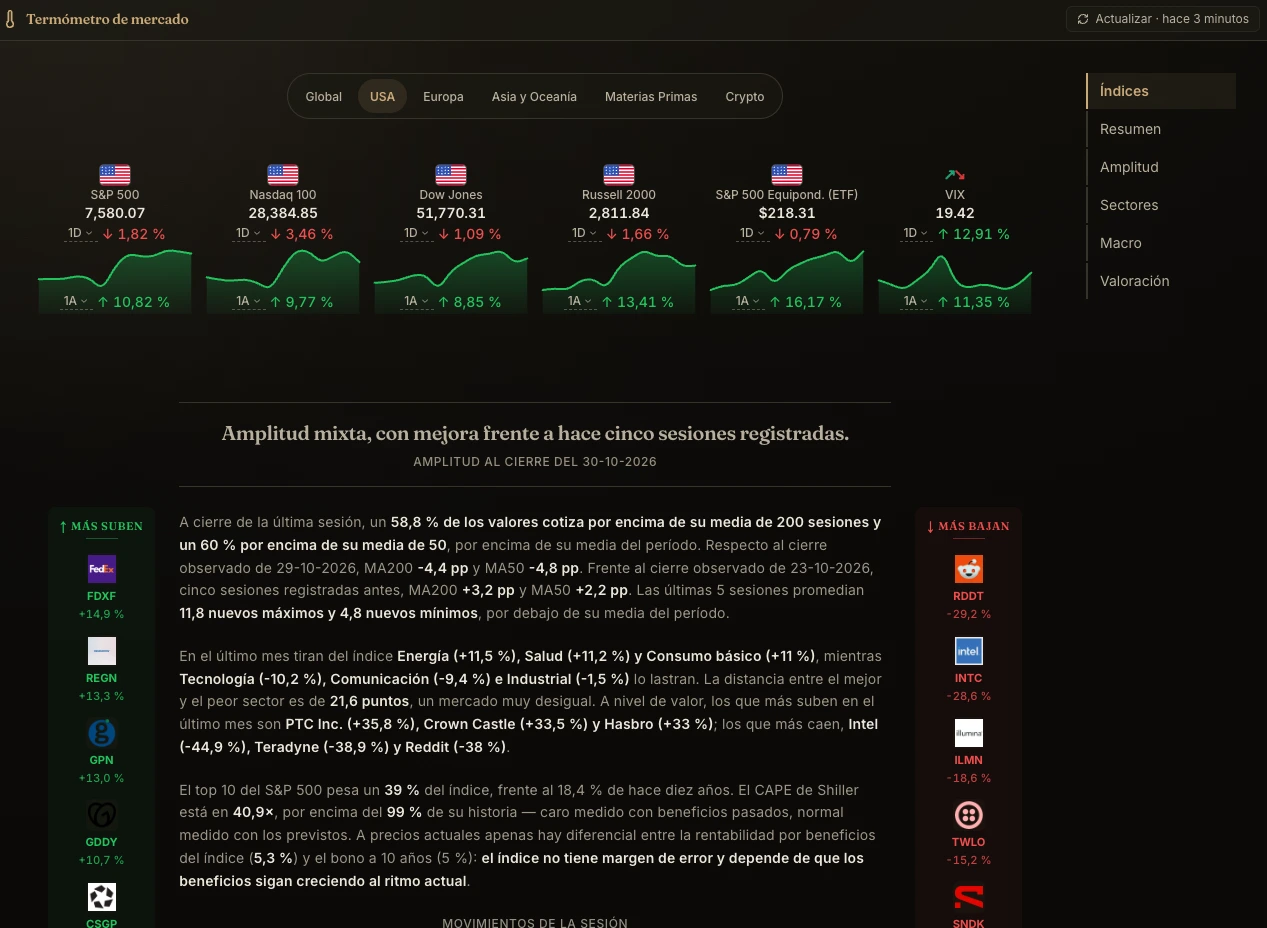
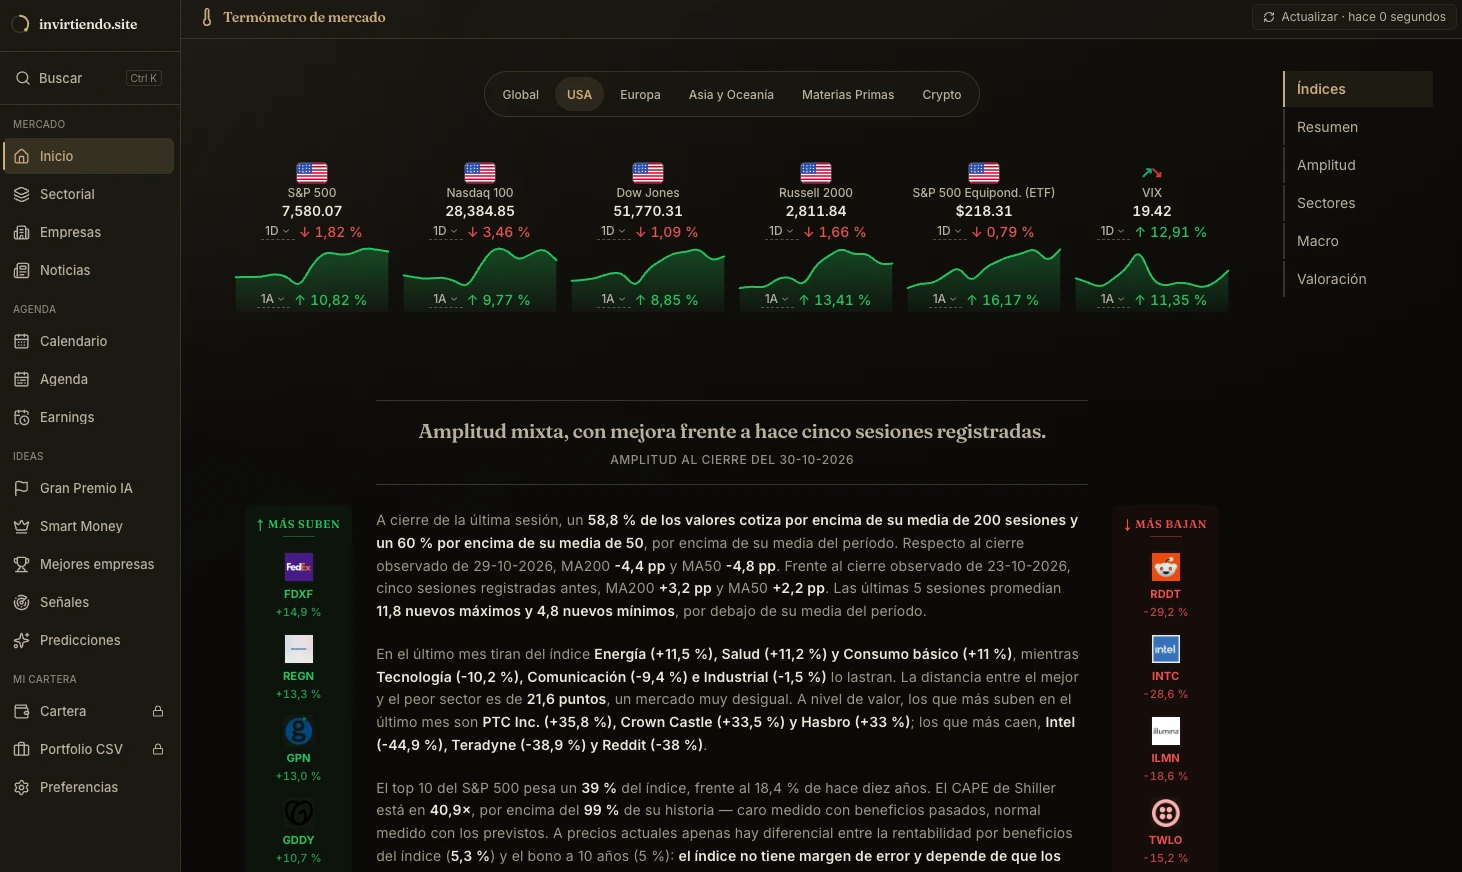
feat(content): invirtiendo.site second with a new cover, Adivina Perro third

diff --git a/src/data/projects.ts b/src/data/projects.ts
@@ -30,7 +30,7 @@ export interface Project {
 }
 
 export const projects: Project[] = [
-  // Featured rows: Gran Premio IA, Adivina Perro, invirtiendo.site, RAG Chatbot
+  // Featured rows: Gran Premio IA, invirtiendo.site, Adivina Perro, RAG Chatbot
   {
     slug: "gran-premio-ia",
     title: "Gran Premio IA",
@@ -72,50 +72,6 @@ export const projects: Project[] = [
         { es: "Pipeline desatendido: guion con Claude, voz sintetizada, render en Remotion y subida a YouTube", en: "Unattended pipeline: Claude script, synthesised voice, Remotion render and YouTube upload" },
         { es: "Vídeos 16:9 y 9:16 con el mismo circuito que la web", en: "16:9 and 9:16 videos on the same circuit as the website" },
         { es: "Matemática de carrera pura con caché coordinada entre servidor, CDN y cliente", en: "Pure race maths with caching coordinated across server, CDN and client" }
-      ],
-    }
-  },
-  {
-    slug: "adivina-perro",
-    title: "Adivina Perro",
-    subtitle: {
-      es: "Reconocimiento de Razas con IA On-Device",
-      en: "On-Device AI Breed Recognition"
-    },
-    description: {
-      es: "App Kotlin Multiplatform (Android + iOS) que combina un quiz de razas de perros con reconocimiento de raza por IA on-device en Android usando un modelo TFLite. Apunta la cámara a un perro y obtén la raza identificada en milisegundos, 100% offline.",
-      en: "Kotlin Multiplatform app (Android + iOS) that combines a dog breed quiz with on-device AI breed recognition on Android using a TFLite model. Point the camera at a dog and get the breed identified in milliseconds, 100% offline."
-    },
-    features: [
-      { es: "TFLite On-Device", en: "On-Device TFLite" },
-      { es: "120 Razas Reconocibles", en: "120 Recognizable Breeds" },
-      { es: "4 Modos de Juego", en: "4 Game Modes" },
-      { es: "200+ Razas Catalogadas", en: "200+ Breed Catalogue" }
-    ],
-    techStack: ["Kotlin Multiplatform", "Compose Multiplatform", "TensorFlow Lite", "MobileNet V2", "CameraX", "Koin", "SQLDelight", "Firebase"],
-    status: 'live',
-    links: { github: "https://github.com/AlvaroQ/AdivinaRaza", demo: "https://play.google.com/store/apps/details?id=com.alvaroquintana.adivinaperro" },
-    caseStudy: {
-      longDescription: {
-        es: "App KMP para Android y iOS que combina un juego de razas de perros con reconocimiento por IA en el dispositivo, sin servidor y sin coste por petición.\n\n## Edge AI: Reconocimiento de Razas\nUn modelo MobileNet V2 optimizado y compilado a TensorFlow Lite ejecuta inferencia 100% on-device. La cámara captura la foto vía CameraX, la imagen se escala a 224×224 y se normaliza a [0, 1], el intérprete TFLite clasifica entre 120 razas y se muestran las top 5 predicciones con porcentaje de confianza. Tap en cualquier resultado abre la ficha completa de la raza.\n\n## Catálogo y Gameplay\n200+ razas con info detallada (origen, temperamento, tamaño, pelaje, ejercicio, cuidados, entrenabilidad, ladrido, datos curiosos), clasificación FCI, guías de nutrición e higiene, enfermedades comunes y nombres alternativos. Cuatro modos de juego: quiz clásico de raza, comparativa de peso/altura, adivinar por descripción y trivia FCI. Sistema de vidas, progresión por etapas y tracking de rachas.\n\n## Arquitectura Multiplataforma\nClean Architecture en 4 módulos KMP: `app` (Compose Multiplatform + plataformas), `usecases` (Pure Kotlin), `data` (repos + SQLDelight + mappers) y `core` (entidades). El interfaz `BreedClassifier` vive en `commonMain`; Android aporta la implementación TFLite, dejando el ViewModel agnóstico de plataforma y listo para una futura implementación iOS.\n\n## Decisiones de Diseño\nSQLDelight como source of truth y Firebase como semilla: una sincronización inicial alimenta SQLite y todas las queries posteriores son locales. MVVM con StateFlow granular en lugar de MVI (los formularios son pequeños y ortogonales). Koin sobre Hilt por compatibilidad KMP nativa sin kapt/ksp.",
-        en: "KMP app for Android and iOS combining a dog breed quiz with on-device AI recognition — no server, no per-request cost.\n\n## Edge AI: Breed Recognition\nA MobileNet V2 model optimised and compiled to TensorFlow Lite runs inference 100% on-device. CameraX captures the photo, the image is scaled to 224×224 and normalised to [0, 1], the TFLite interpreter classifies across 120 breeds and the top 5 predictions are displayed with confidence percentages. Tap any result to open the full breed details.\n\n## Catalogue and Gameplay\n200+ breeds with detailed info (origin, temperament, size, coat, exercise needs, grooming, trainability, barking level, fun facts), FCI classification, nutrition and hygiene guides, common diseases and alternative names. Four game modes: classic breed quiz, weight/height comparison, description guessing and FCI trivia. Lives system, stage progression and streak tracking.\n\n## Multiplatform Architecture\nClean Architecture across 4 KMP modules: `app` (Compose Multiplatform + platforms), `usecases` (Pure Kotlin), `data` (repos + SQLDelight + mappers) and `core` (entities). The `BreedClassifier` interface lives in `commonMain`; Android provides the TFLite implementation, keeping the ViewModel platform-agnostic and ready for a future iOS implementation.\n\n## Design Decisions\nSQLDelight as source of truth and Firebase as the seed: an initial sync feeds SQLite and every subsequent query stays local. MVVM with granular StateFlow over MVI (forms are small and orthogonal). Koin over Hilt for native KMP compatibility without kapt/ksp."
-      },
-      architecture: {
-        es: "Lenguaje: Kotlin Multiplatform 2.3.20\nUI: Compose Multiplatform (BOM 2026.03.01) + Material3\nPlataformas: Android (API 23+) + iOS (iosArm64 + iosSimulatorArm64)\nArquitectura: Clean Architecture, 4 módulos KMP (app, usecases, data, core) + MVVM\nEstado: StateFlow + SharedFlow (Coroutines 1.10.2)\nNavegación: Navigation Compose KMP type-safe 2.9.2\nDI: Koin Multiplatform 4.2.1\nIA on-device: TensorFlow Lite 2.17.0 (MobileNet V2 — 120 razas)\nCámara: CameraX (Android)\nPersistencia: SQLDelight 2.0.2 (Multiplatform)\nBackend: Firebase BOM 34.12.0 (Firestore, Realtime DB, Auth, Analytics, Crashlytics)\nMonetización: AdMob 25.2.0 (banner + rewarded + interstitial) + UMP 4.0.0\nTesting: 59 unit tests JVM (JUnit 4 + MockK + Turbine)",
-        en: "Language: Kotlin Multiplatform 2.3.20\nUI: Compose Multiplatform (BOM 2026.03.01) + Material3\nPlatforms: Android (API 23+) + iOS (iosArm64 + iosSimulatorArm64)\nArchitecture: Clean Architecture, 4 KMP modules (app, usecases, data, core) + MVVM\nState: StateFlow + SharedFlow (Coroutines 1.10.2)\nNavigation: Navigation Compose KMP type-safe 2.9.2\nDI: Koin Multiplatform 4.2.1\nOn-device AI: TensorFlow Lite 2.17.0 (MobileNet V2 — 120 breeds)\nCamera: CameraX (Android)\nPersistence: SQLDelight 2.0.2 (Multiplatform)\nBackend: Firebase BOM 34.12.0 (Firestore, Realtime DB, Auth, Analytics, Crashlytics)\nMonetisation: AdMob 25.2.0 (banner + rewarded + interstitial) + UMP 4.0.0\nTesting: 59 unit tests JVM (JUnit 4 + MockK + Turbine)"
-      },
-      screenshots: [
-        "projects/adivina-perro-banner.webp"
-      ],
-      keyHighlights: [
-        { es: "Reconocimiento de raza 100% on-device con TFLite — sin red, sin coste por petición", en: "100% on-device breed recognition with TFLite — no network, no per-request cost" },
-        { es: "MobileNet V2 optimizado: 224×224 RGB, 120 clases, latencia en milisegundos", en: "Optimised MobileNet V2: 224×224 RGB, 120 classes, millisecond latency" },
-        { es: "Top 5 predicciones con porcentaje de confianza y navegación directa al detalle", en: "Top 5 predictions with confidence percentages and direct navigation to detail" },
-        { es: "Catálogo de 200+ razas con info de cuidados, FCI, dieta y enfermedades", en: "Catalogue of 200+ breeds with care info, FCI, diet and diseases" },
-        { es: "4 modos de juego: quiz clásico, peso/altura, descripción y trivia FCI", en: "4 game modes: classic quiz, weight/height, description and FCI trivia" },
-        { es: "Clean Architecture en 4 módulos KMP con interfaz BreedClassifier en commonMain", en: "Clean Architecture across 4 KMP modules with BreedClassifier interface in commonMain" },
-        { es: "59 unit tests pasando en CI (32 ViewModels + 14 use cases + 13 data)", en: "59 unit tests passing in CI (32 ViewModels + 14 use cases + 13 data)" },
-        { es: "SQLDelight como source of truth, Firebase como semilla — playable offline", en: "SQLDelight as source of truth, Firebase as seed — playable offline" }
       ],
     }
   },
@@ -163,6 +119,50 @@ export const projects: Project[] = [
         { es: "Cartera de acciones y ETFs: CAGR, Sharpe, drawdown, rayos X y solapamientos", en: "Stock and ETF portfolio: CAGR, Sharpe, drawdown, X-ray and overlap" },
         { es: "85 módulos de feature y pipelines de datos nocturnos y semanales hacia Firestore", en: "85 feature modules and nightly and weekly data pipelines into Firestore" },
         { es: "Quality gate con ~650 ficheros de test, escaneo de secretos y presupuestos de rendimiento", en: "Quality gate with ~650 test files, secret scanning and performance budgets" }
+      ],
+    }
+  },
+  {
+    slug: "adivina-perro",
+    title: "Adivina Perro",
+    subtitle: {
+      es: "Reconocimiento de Razas con IA On-Device",
+      en: "On-Device AI Breed Recognition"
+    },
+    description: {
+      es: "App Kotlin Multiplatform (Android + iOS) que combina un quiz de razas de perros con reconocimiento de raza por IA on-device en Android usando un modelo TFLite. Apunta la cámara a un perro y obtén la raza identificada en milisegundos, 100% offline.",
+      en: "Kotlin Multiplatform app (Android + iOS) that combines a dog breed quiz with on-device AI breed recognition on Android using a TFLite model. Point the camera at a dog and get the breed identified in milliseconds, 100% offline."
+    },
+    features: [
+      { es: "TFLite On-Device", en: "On-Device TFLite" },
+      { es: "120 Razas Reconocibles", en: "120 Recognizable Breeds" },
+      { es: "4 Modos de Juego", en: "4 Game Modes" },
+      { es: "200+ Razas Catalogadas", en: "200+ Breed Catalogue" }
+    ],
+    techStack: ["Kotlin Multiplatform", "Compose Multiplatform", "TensorFlow Lite", "MobileNet V2", "CameraX", "Koin", "SQLDelight", "Firebase"],
+    status: 'live',
+    links: { github: "https://github.com/AlvaroQ/AdivinaRaza", demo: "https://play.google.com/store/apps/details?id=com.alvaroquintana.adivinaperro" },
+    caseStudy: {
+      longDescription: {
+        es: "App KMP para Android y iOS que combina un juego de razas de perros con reconocimiento por IA en el dispositivo, sin servidor y sin coste por petición.\n\n## Edge AI: Reconocimiento de Razas\nUn modelo MobileNet V2 optimizado y compilado a TensorFlow Lite ejecuta inferencia 100% on-device. La cámara captura la foto vía CameraX, la imagen se escala a 224×224 y se normaliza a [0, 1], el intérprete TFLite clasifica entre 120 razas y se muestran las top 5 predicciones con porcentaje de confianza. Tap en cualquier resultado abre la ficha completa de la raza.\n\n## Catálogo y Gameplay\n200+ razas con info detallada (origen, temperamento, tamaño, pelaje, ejercicio, cuidados, entrenabilidad, ladrido, datos curiosos), clasificación FCI, guías de nutrición e higiene, enfermedades comunes y nombres alternativos. Cuatro modos de juego: quiz clásico de raza, comparativa de peso/altura, adivinar por descripción y trivia FCI. Sistema de vidas, progresión por etapas y tracking de rachas.\n\n## Arquitectura Multiplataforma\nClean Architecture en 4 módulos KMP: `app` (Compose Multiplatform + plataformas), `usecases` (Pure Kotlin), `data` (repos + SQLDelight + mappers) y `core` (entidades). El interfaz `BreedClassifier` vive en `commonMain`; Android aporta la implementación TFLite, dejando el ViewModel agnóstico de plataforma y listo para una futura implementación iOS.\n\n## Decisiones de Diseño\nSQLDelight como source of truth y Firebase como semilla: una sincronización inicial alimenta SQLite y todas las queries posteriores son locales. MVVM con StateFlow granular en lugar de MVI (los formularios son pequeños y ortogonales). Koin sobre Hilt por compatibilidad KMP nativa sin kapt/ksp.",
+        en: "KMP app for Android and iOS combining a dog breed quiz with on-device AI recognition — no server, no per-request cost.\n\n## Edge AI: Breed Recognition\nA MobileNet V2 model optimised and compiled to TensorFlow Lite runs inference 100% on-device. CameraX captures the photo, the image is scaled to 224×224 and normalised to [0, 1], the TFLite interpreter classifies across 120 breeds and the top 5 predictions are displayed with confidence percentages. Tap any result to open the full breed details.\n\n## Catalogue and Gameplay\n200+ breeds with detailed info (origin, temperament, size, coat, exercise needs, grooming, trainability, barking level, fun facts), FCI classification, nutrition and hygiene guides, common diseases and alternative names. Four game modes: classic breed quiz, weight/height comparison, description guessing and FCI trivia. Lives system, stage progression and streak tracking.\n\n## Multiplatform Architecture\nClean Architecture across 4 KMP modules: `app` (Compose Multiplatform + platforms), `usecases` (Pure Kotlin), `data` (repos + SQLDelight + mappers) and `core` (entities). The `BreedClassifier` interface lives in `commonMain`; Android provides the TFLite implementation, keeping the ViewModel platform-agnostic and ready for a future iOS implementation.\n\n## Design Decisions\nSQLDelight as source of truth and Firebase as the seed: an initial sync feeds SQLite and every subsequent query stays local. MVVM with granular StateFlow over MVI (forms are small and orthogonal). Koin over Hilt for native KMP compatibility without kapt/ksp."
+      },
+      architecture: {
+        es: "Lenguaje: Kotlin Multiplatform 2.3.20\nUI: Compose Multiplatform (BOM 2026.03.01) + Material3\nPlataformas: Android (API 23+) + iOS (iosArm64 + iosSimulatorArm64)\nArquitectura: Clean Architecture, 4 módulos KMP (app, usecases, data, core) + MVVM\nEstado: StateFlow + SharedFlow (Coroutines 1.10.2)\nNavegación: Navigation Compose KMP type-safe 2.9.2\nDI: Koin Multiplatform 4.2.1\nIA on-device: TensorFlow Lite 2.17.0 (MobileNet V2 — 120 razas)\nCámara: CameraX (Android)\nPersistencia: SQLDelight 2.0.2 (Multiplatform)\nBackend: Firebase BOM 34.12.0 (Firestore, Realtime DB, Auth, Analytics, Crashlytics)\nMonetización: AdMob 25.2.0 (banner + rewarded + interstitial) + UMP 4.0.0\nTesting: 59 unit tests JVM (JUnit 4 + MockK + Turbine)",
+        en: "Language: Kotlin Multiplatform 2.3.20\nUI: Compose Multiplatform (BOM 2026.03.01) + Material3\nPlatforms: Android (API 23+) + iOS (iosArm64 + iosSimulatorArm64)\nArchitecture: Clean Architecture, 4 KMP modules (app, usecases, data, core) + MVVM\nState: StateFlow + SharedFlow (Coroutines 1.10.2)\nNavigation: Navigation Compose KMP type-safe 2.9.2\nDI: Koin Multiplatform 4.2.1\nOn-device AI: TensorFlow Lite 2.17.0 (MobileNet V2 — 120 breeds)\nCamera: CameraX (Android)\nPersistence: SQLDelight 2.0.2 (Multiplatform)\nBackend: Firebase BOM 34.12.0 (Firestore, Realtime DB, Auth, Analytics, Crashlytics)\nMonetisation: AdMob 25.2.0 (banner + rewarded + interstitial) + UMP 4.0.0\nTesting: 59 unit tests JVM (JUnit 4 + MockK + Turbine)"
+      },
+      screenshots: [
+        "projects/adivina-perro-banner.webp"
+      ],
+      keyHighlights: [
+        { es: "Reconocimiento de raza 100% on-device con TFLite — sin red, sin coste por petición", en: "100% on-device breed recognition with TFLite — no network, no per-request cost" },
+        { es: "MobileNet V2 optimizado: 224×224 RGB, 120 clases, latencia en milisegundos", en: "Optimised MobileNet V2: 224×224 RGB, 120 classes, millisecond latency" },
+        { es: "Top 5 predicciones con porcentaje de confianza y navegación directa al detalle", en: "Top 5 predictions with confidence percentages and direct navigation to detail" },
+        { es: "Catálogo de 200+ razas con info de cuidados, FCI, dieta y enfermedades", en: "Catalogue of 200+ breeds with care info, FCI, diet and diseases" },
+        { es: "4 modos de juego: quiz clásico, peso/altura, descripción y trivia FCI", en: "4 game modes: classic quiz, weight/height, description and FCI trivia" },
+        { es: "Clean Architecture en 4 módulos KMP con interfaz BreedClassifier en commonMain", en: "Clean Architecture across 4 KMP modules with BreedClassifier interface in commonMain" },
+        { es: "59 unit tests pasando en CI (32 ViewModels + 14 use cases + 13 data)", en: "59 unit tests passing in CI (32 ViewModels + 14 use cases + 13 data)" },
+        { es: "SQLDelight como source of truth, Firebase como semilla — playable offline", en: "SQLDelight as source of truth, Firebase as seed — playable offline" }
       ],
     }
   },
